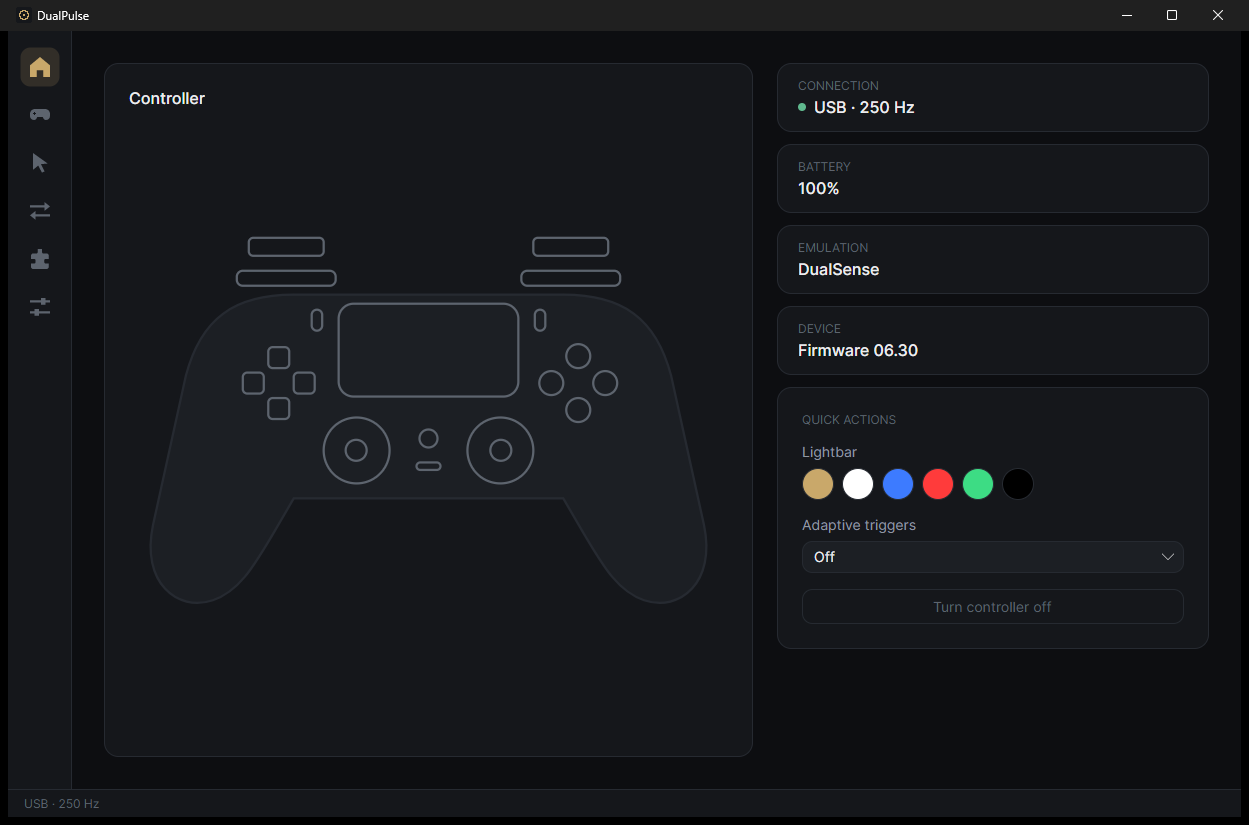
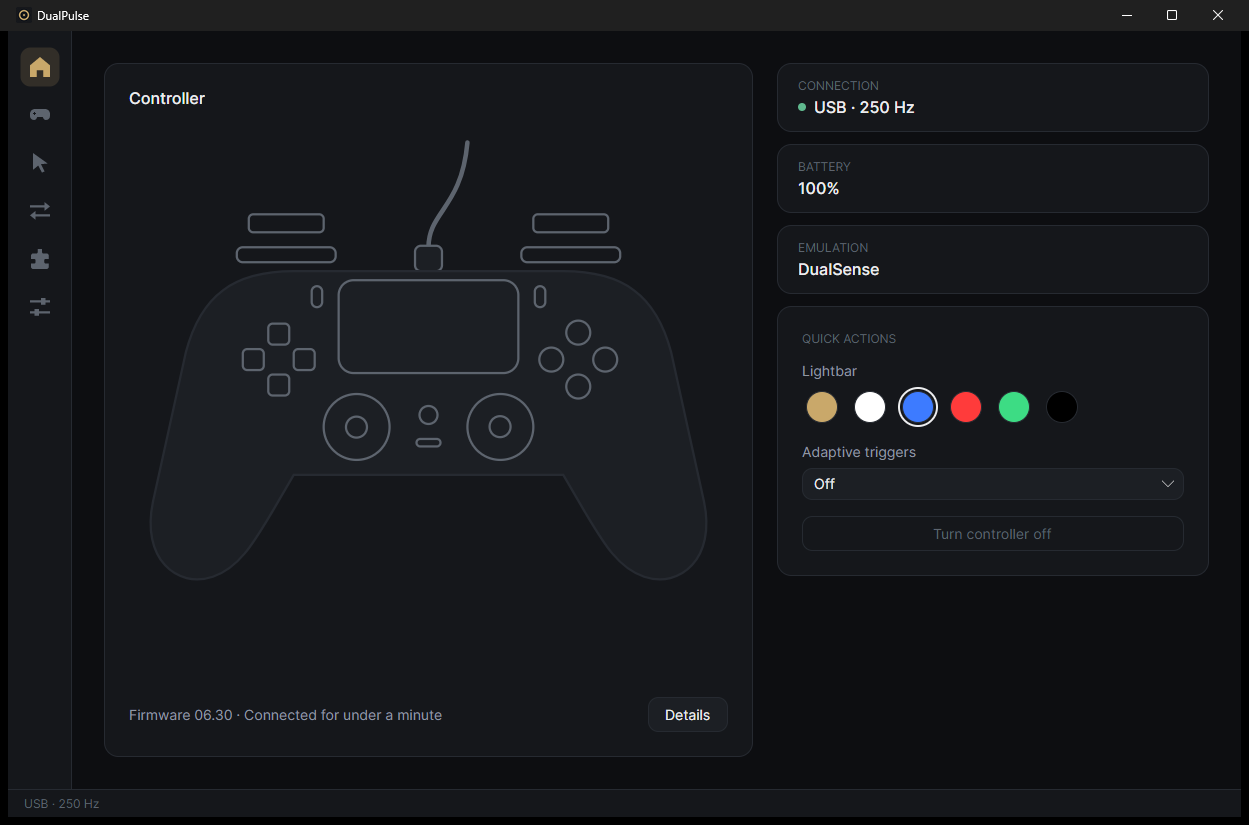
Version 0.4.0: README, website and virtual DualSense notes cover the microphone, profiles, game tuning and controller details; new Home screenshot; releases carry their own notes (docs/releases)

diff --git a/src/DualPulse.App.Tests/SettingsViewModelTests.cs b/src/DualPulse.App.Tests/SettingsViewModelTests.cs
@@ -44,7 +44,7 @@ public sealed class SettingsViewModelTests
 	{
 		SettingsViewModel viewModel = CreateViewModel();
 
-		Assert.Equal("0.3.0", viewModel.Version);
+		Assert.Equal("0.4.0", viewModel.Version);
 		viewModel.OpenLogsFolderCommand.Execute(null);
 		viewModel.OpenThirdPartyNoticesCommand.Execute(null);
 

diff --git a/docs/virtual-dualsense.md b/docs/virtual-dualsense.md
@@ -1,7 +1,7 @@
 # Virtual DualSense (Phase V): setup and first test
 
-Most games with native DualSense support (adaptive triggers, haptics, speaker) only turn those features on for a USB
-DualSense. In this mode DualPulse plugs in a virtual USB DualSense of its own. It relays what the game sends to your
+Most games with native DualSense support (adaptive triggers, haptics, speaker, microphone) only turn those features
+on for a USB DualSense. In this mode DualPulse plugs in a virtual USB DualSense of its own. It relays what the game sends to your
 real controller over Bluetooth, and relays your controller's input to the game.
 
 The virtual controller is DualPulse's own code (`VirtualDualSense`, served over USB/IP on localhost). Windows still
@@ -41,11 +41,23 @@ needs a USB/IP driver to plug it in: **usbip-win2**. Nothing else has to be inst
 - Isochronous audio runs on a 1 ms frame clock. Windows sends 10 ms transfers; each one completes after its 10
   frames, with consecutive start frames. Completing them instantly makes Windows race ahead and reset the pipe.
 
-## Cable haptics after Bluetooth
+## Microphone
+
+The virtual DualSense has a microphone of its own (in Windows: the second "Headset Microphone (DualSense Wireless
+Controller)"; the Microphone tab names it). On the cable, while something records from it, DualPulse fills it with
+the real controller's microphone, through a 100 Hz low cut, a noise gate that ignores mouth clicks (it opens only
+after 20 ms of sound, with 30 ms look-ahead; the threshold is set on the Microphone tab) and an optional boost. The
+real microphone is only open while something records. Over Bluetooth the controller sends no microphone yet.
+
+The DualSense already gates and suppresses noise in its own microphone, and its sound has some low crackle of its own
+(also when recorded directly); the low cut softens it.
+
+## Cable sound after Bluetooth
 
 On the cable, a game's haptics are sound on channels 3-4 of the controller's own USB audio device; DualPulse plays
 them there. But a DualSense that has been connected over Bluetooth since it was switched on ignores that sound (it
-still arrives: Windows meters it at full level) until it is switched off and on. This happens without DualPulse too
+still arrives: Windows meters it at full level) until it is switched off and on. Its microphone stays silent until
+then too (the Microphone tab says so). This happens without DualPulse too
 (tested 2026-10-25 with DualPulse closed). DualPulse shows a notice when the controller is plugged in from Bluetooth
 in DualSense mode. To keep haptics while charging mid-game, charge from a USB charger or power bank: the controller
 then stays on Bluetooth.
@@ -55,10 +67,10 @@ the motor bits only while the motors run.
 
 ## Notes
 
-- While a game drives the virtual DualSense, its output overrides DualPulse's lighting and trigger settings.
-  DualPulse's own sound-to-haptics and controller audio stand down.
-- Over USB, input and the game's output block are relayed, but game audio is not. Over USB the game can use the real
-  controller directly anyway.
+- While a game drives the virtual DualSense, it sets the lights and adaptive triggers unless you turn that off on the
+  Emulation page; anything it never sets stays yours. DualPulse's own sound-to-haptics and controller audio stand
+  down.
+- Over USB, the game's haptics and speaker sound go to the real controller's own sound device.
 - Other operating systems: the device and server are portable. Only the attacher is Windows-specific. Linux would
   need one for the `vhci-hcd` driver's `usbip` tool, which needs root.
 - History: Phase V first used VIIPER for the virtual device. That build dropped the device when game audio flowed,

diff --git a/README.md b/README.md
@@ -1,18 +1,22 @@
 # DualPulse: free DualSense app for PC
 
 Get everything out of a PS5 DualSense controller on Windows, **including over Bluetooth**: adaptive triggers, haptic
-feedback, the controller's speaker, lights and controller emulation. Free and open source, a free alternative to DSX.
+feedback, the controller's speaker and microphone, lights and controller emulation. Free and open source, a free
+alternative to DSX.
 
 ![DualPulse home screen](docs/images/home.png)
 
 ## Features
 
 - **Wireless haptics, adaptive triggers and speaker** for games with DualSense support, through a virtual DualSense.
-- **Haptic feedback over Bluetooth** from game rumble, and PC sound you can feel in the grips.
+- **Haptic feedback over Bluetooth** from game rumble, and PC sound you can feel in the grips (also on the cable).
 - **Emulation:** Xbox 360, DualShock 4 or DualSense, with your real controller hidden from games.
-- **Adaptive triggers and gyro per game**, switching automatically.
+- **Profiles:** triggers, gyro and sticks per game (switching automatically) or picked by hand.
+- **For games:** stick deadzones, button remapping, gyro as the right stick, all trigger effects.
+- **Microphone in games:** the controller's mic through the virtual DualSense, with a click-proof noise gate, low cut
+  and boost.
 - **PC control:** touchpad as mouse, buttons as keys and media keys.
-- **Lightbar, battery LEDs, mic mute button**, and DSX mods.
+- **Lightbar, battery LEDs, mic mute button**, controller details and DSX mods.
 
 ## Get started
 
@@ -24,8 +28,8 @@ feedback, the controller's speaker, lights and controller emulation. Free and op
    [usbip-win2](https://github.com/vadimgrn/usbip-win2/releases) for DualSense, and
    [HidHide](https://github.com/nefarius/HidHide/releases) to hide the real controller.
 
-After Bluetooth, the controller ignores game haptics over the cable until you turn it off and on again. More:
-[virtual DualSense](docs/virtual-dualsense.md).
+After Bluetooth, the controller's sound over the cable (game haptics and its microphone) stays off until you turn it
+off and on again. More: [virtual DualSense](docs/virtual-dualsense.md).
 
 ## Build from source
 

diff --git a/docs/releases/v0.4.0.md b/docs/releases/v0.4.0.md
@@ -1,0 +1,18 @@
+## What's new
+
+- **Microphone in games:** in DualSense mode on the cable, games hear your controller's microphone through the
+  virtual DualSense, with a noise gate that ignores mouth clicks, a low cut and a boost.
+- **Microphone tab:** live sound of your controller's mic, which Windows device to pick in games, its volume, and the
+  Mute button settings (moved from Lighting).
+- **Feel PC sound on the cable:** now through the controller's haptics instead of Bluetooth only, with less delay.
+- **Controller details:** firmware and connected time under the controller picture; Details shows everything, with
+  Copy. The picture shows a cable when plugged in.
+- **DualSense mode:** choose whether a game sets the lights and adaptive triggers. The Emulation page says in short
+  what each mode gives.
+- **New installs start in Native**, which needs no driver.
+
+## Fixes
+
+- The Mute button mutes the microphone again.
+- Plugging in the cable no longer moves your PC's sound to the controller.
+- Firmware is read again when Bluetooth connects right after the controller is switched on.
